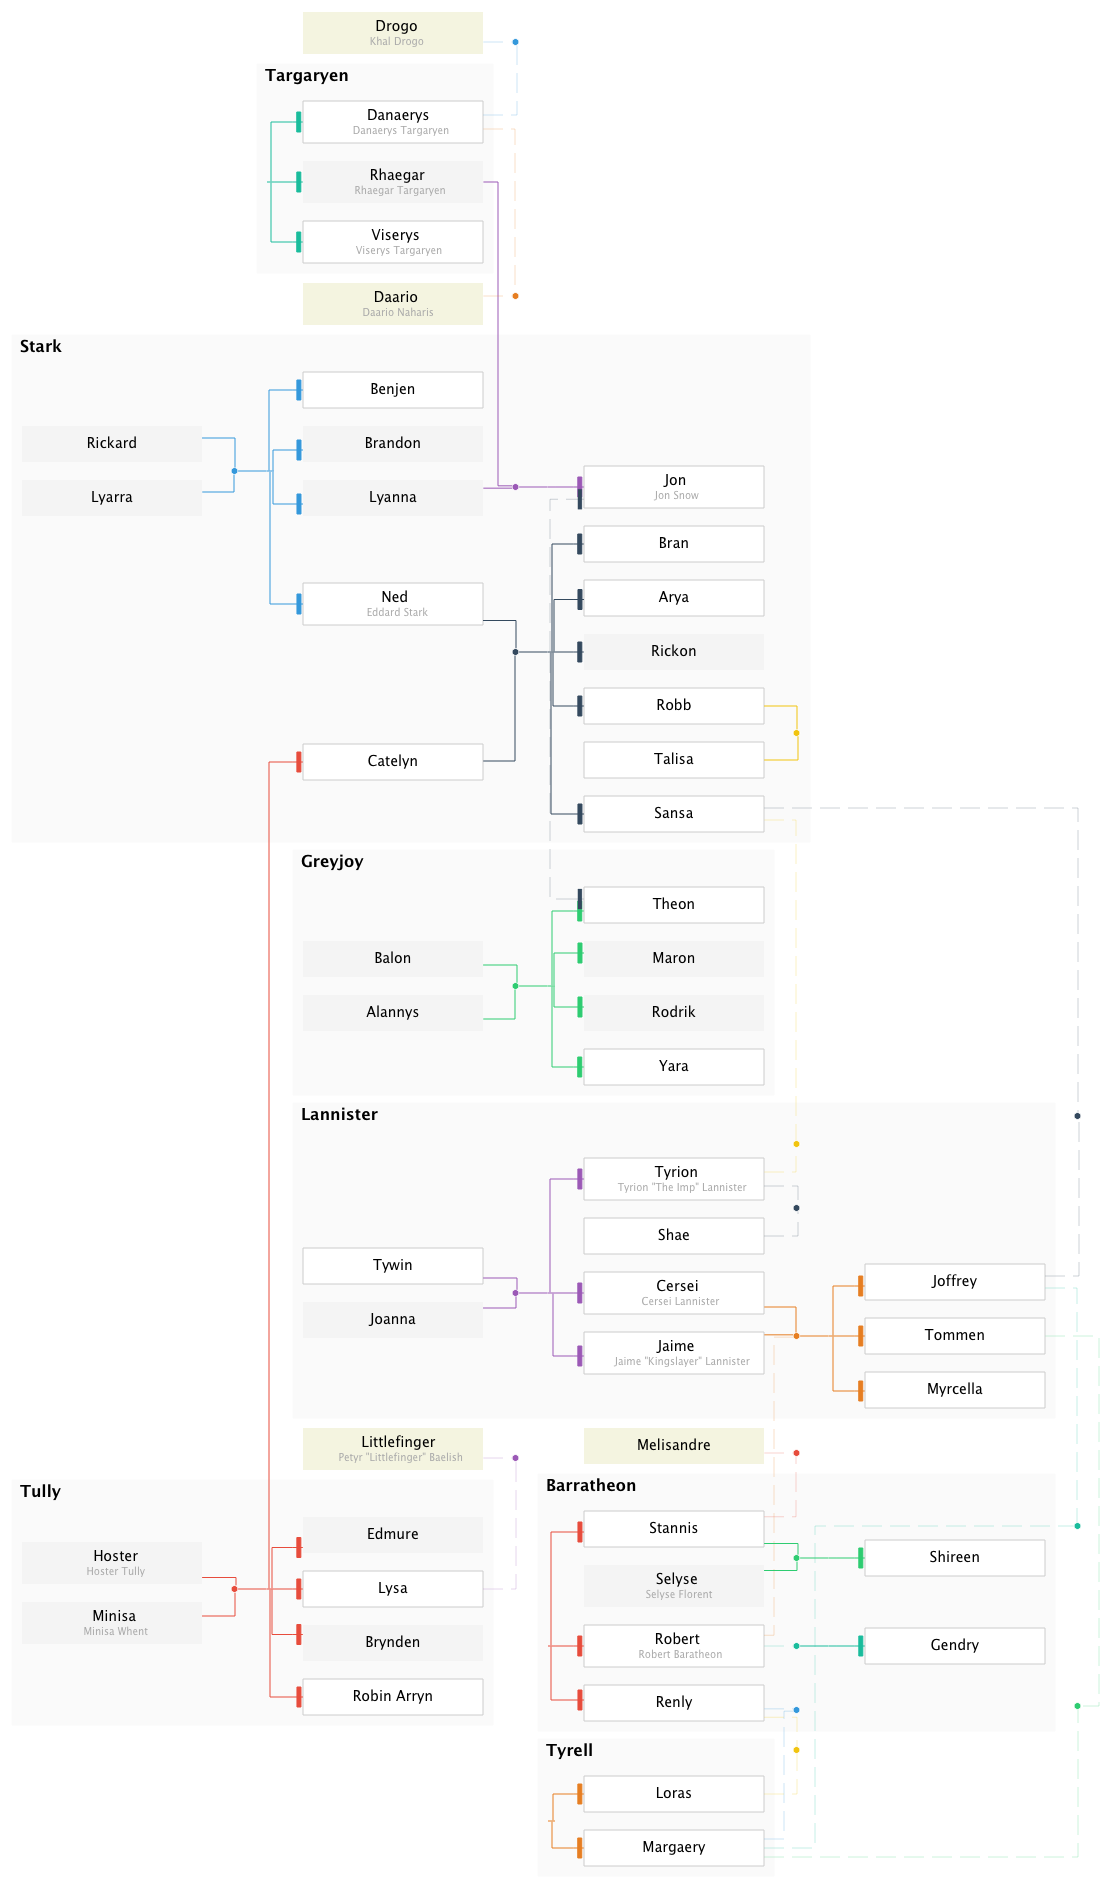
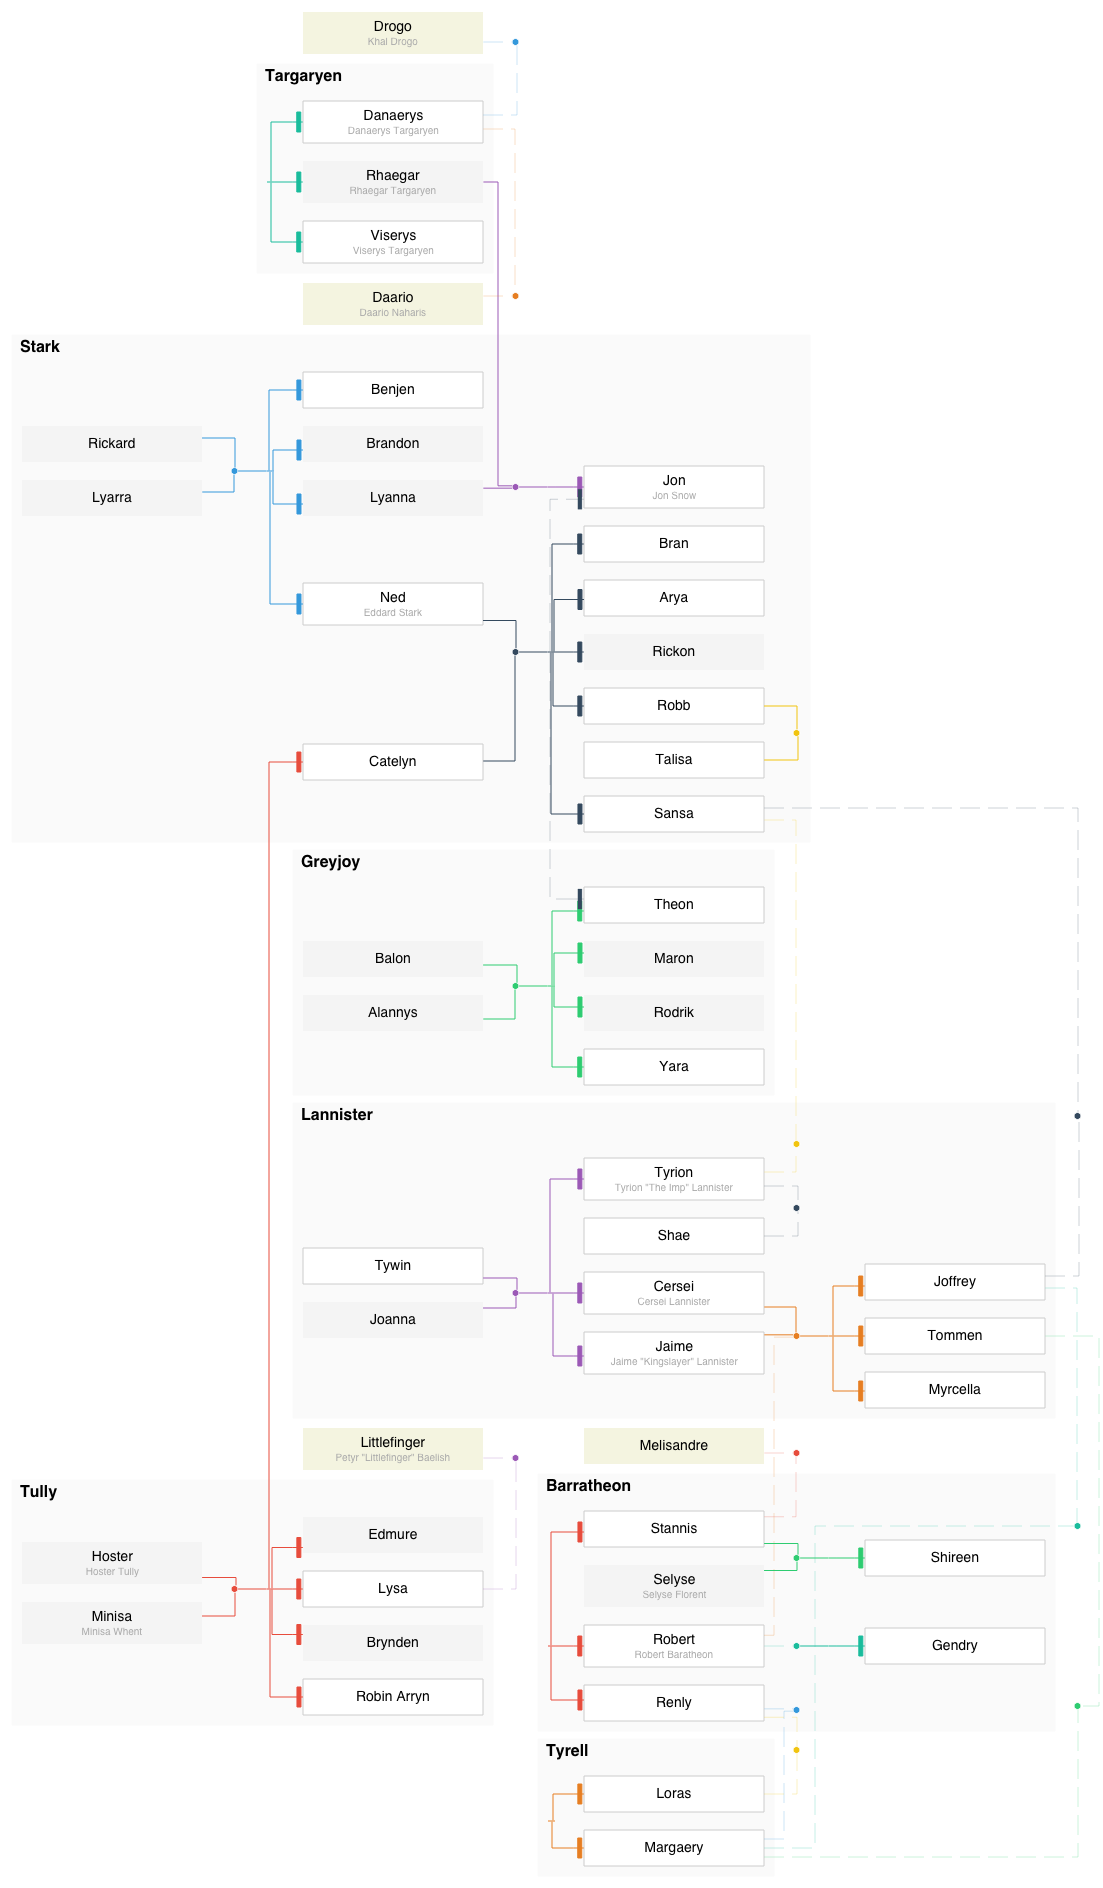
Update PNGs

diff --git a/lib/defaults/styles.js b/lib/defaults/styles.js
@@ -23,7 +23,7 @@ const DEFAULT_STYLES = {
   ':node': {
     shape: 'box',
     style: 'filled',
-    fontname: 'sans-serif',
+    fontname: 'Helvetica, Arial, sans-serif',
     width: 2.5,
     fillcolor: 'white',
     color: '#cccccc'

diff --git a/README.md b/README.md
@@ -47,7 +47,6 @@ Spoiler alerts, view at your own risk :)
 > ![](examples/got.png)
 </details>
 
-
 Getting started
 ---------------
 
